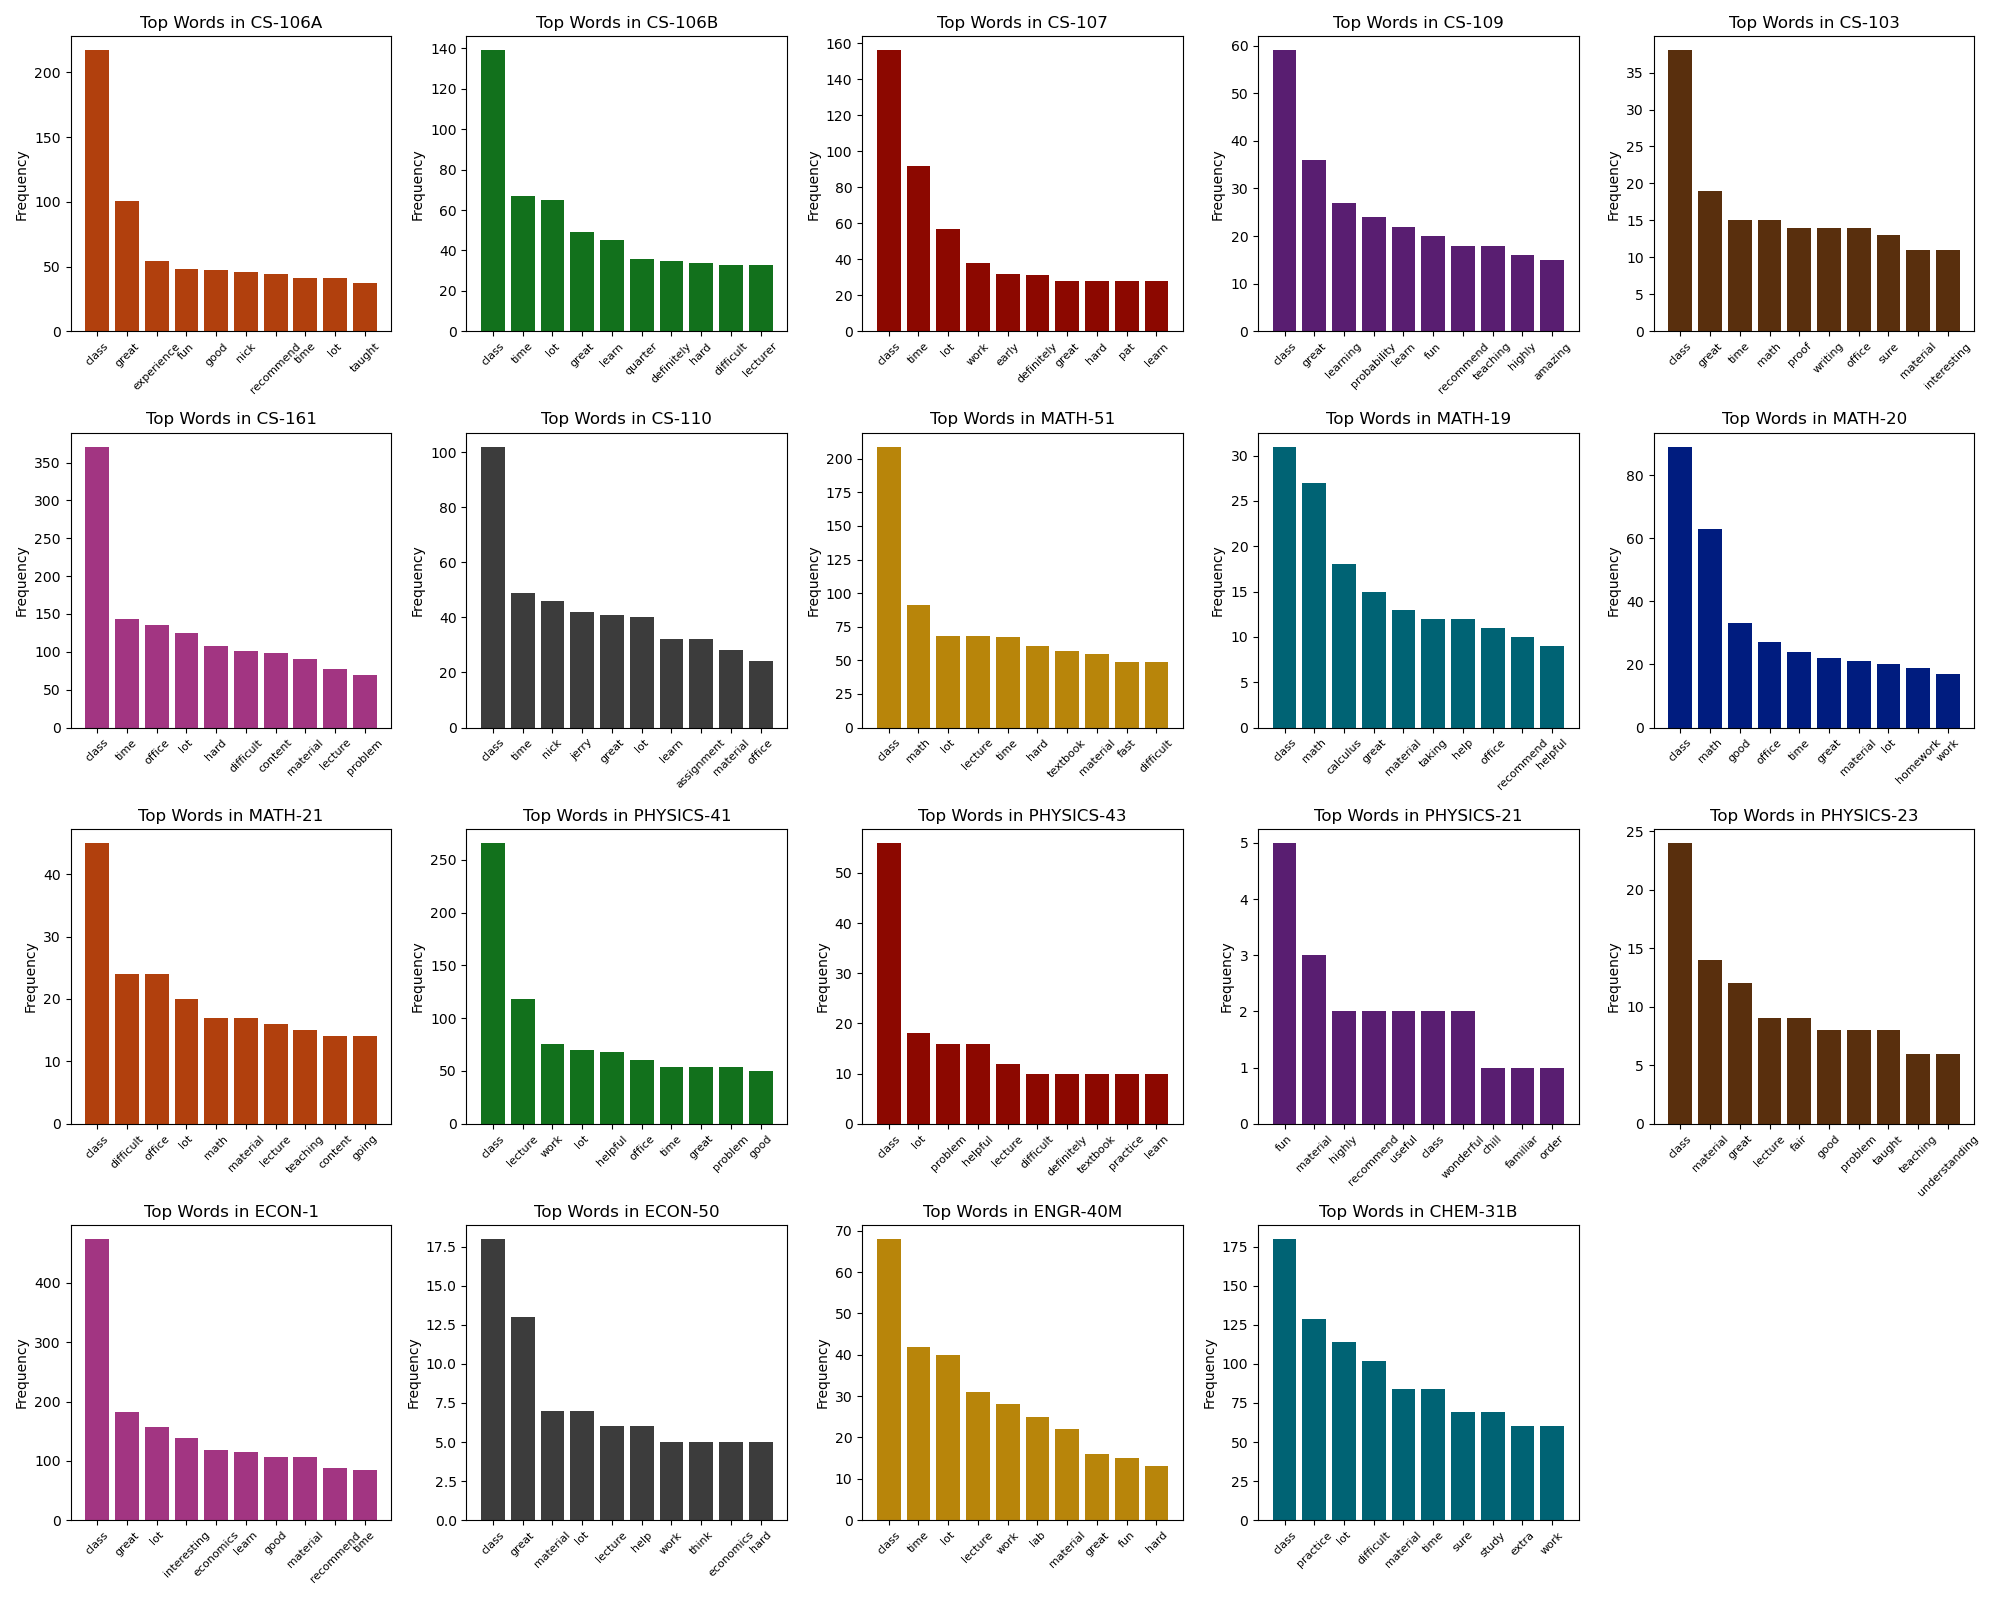
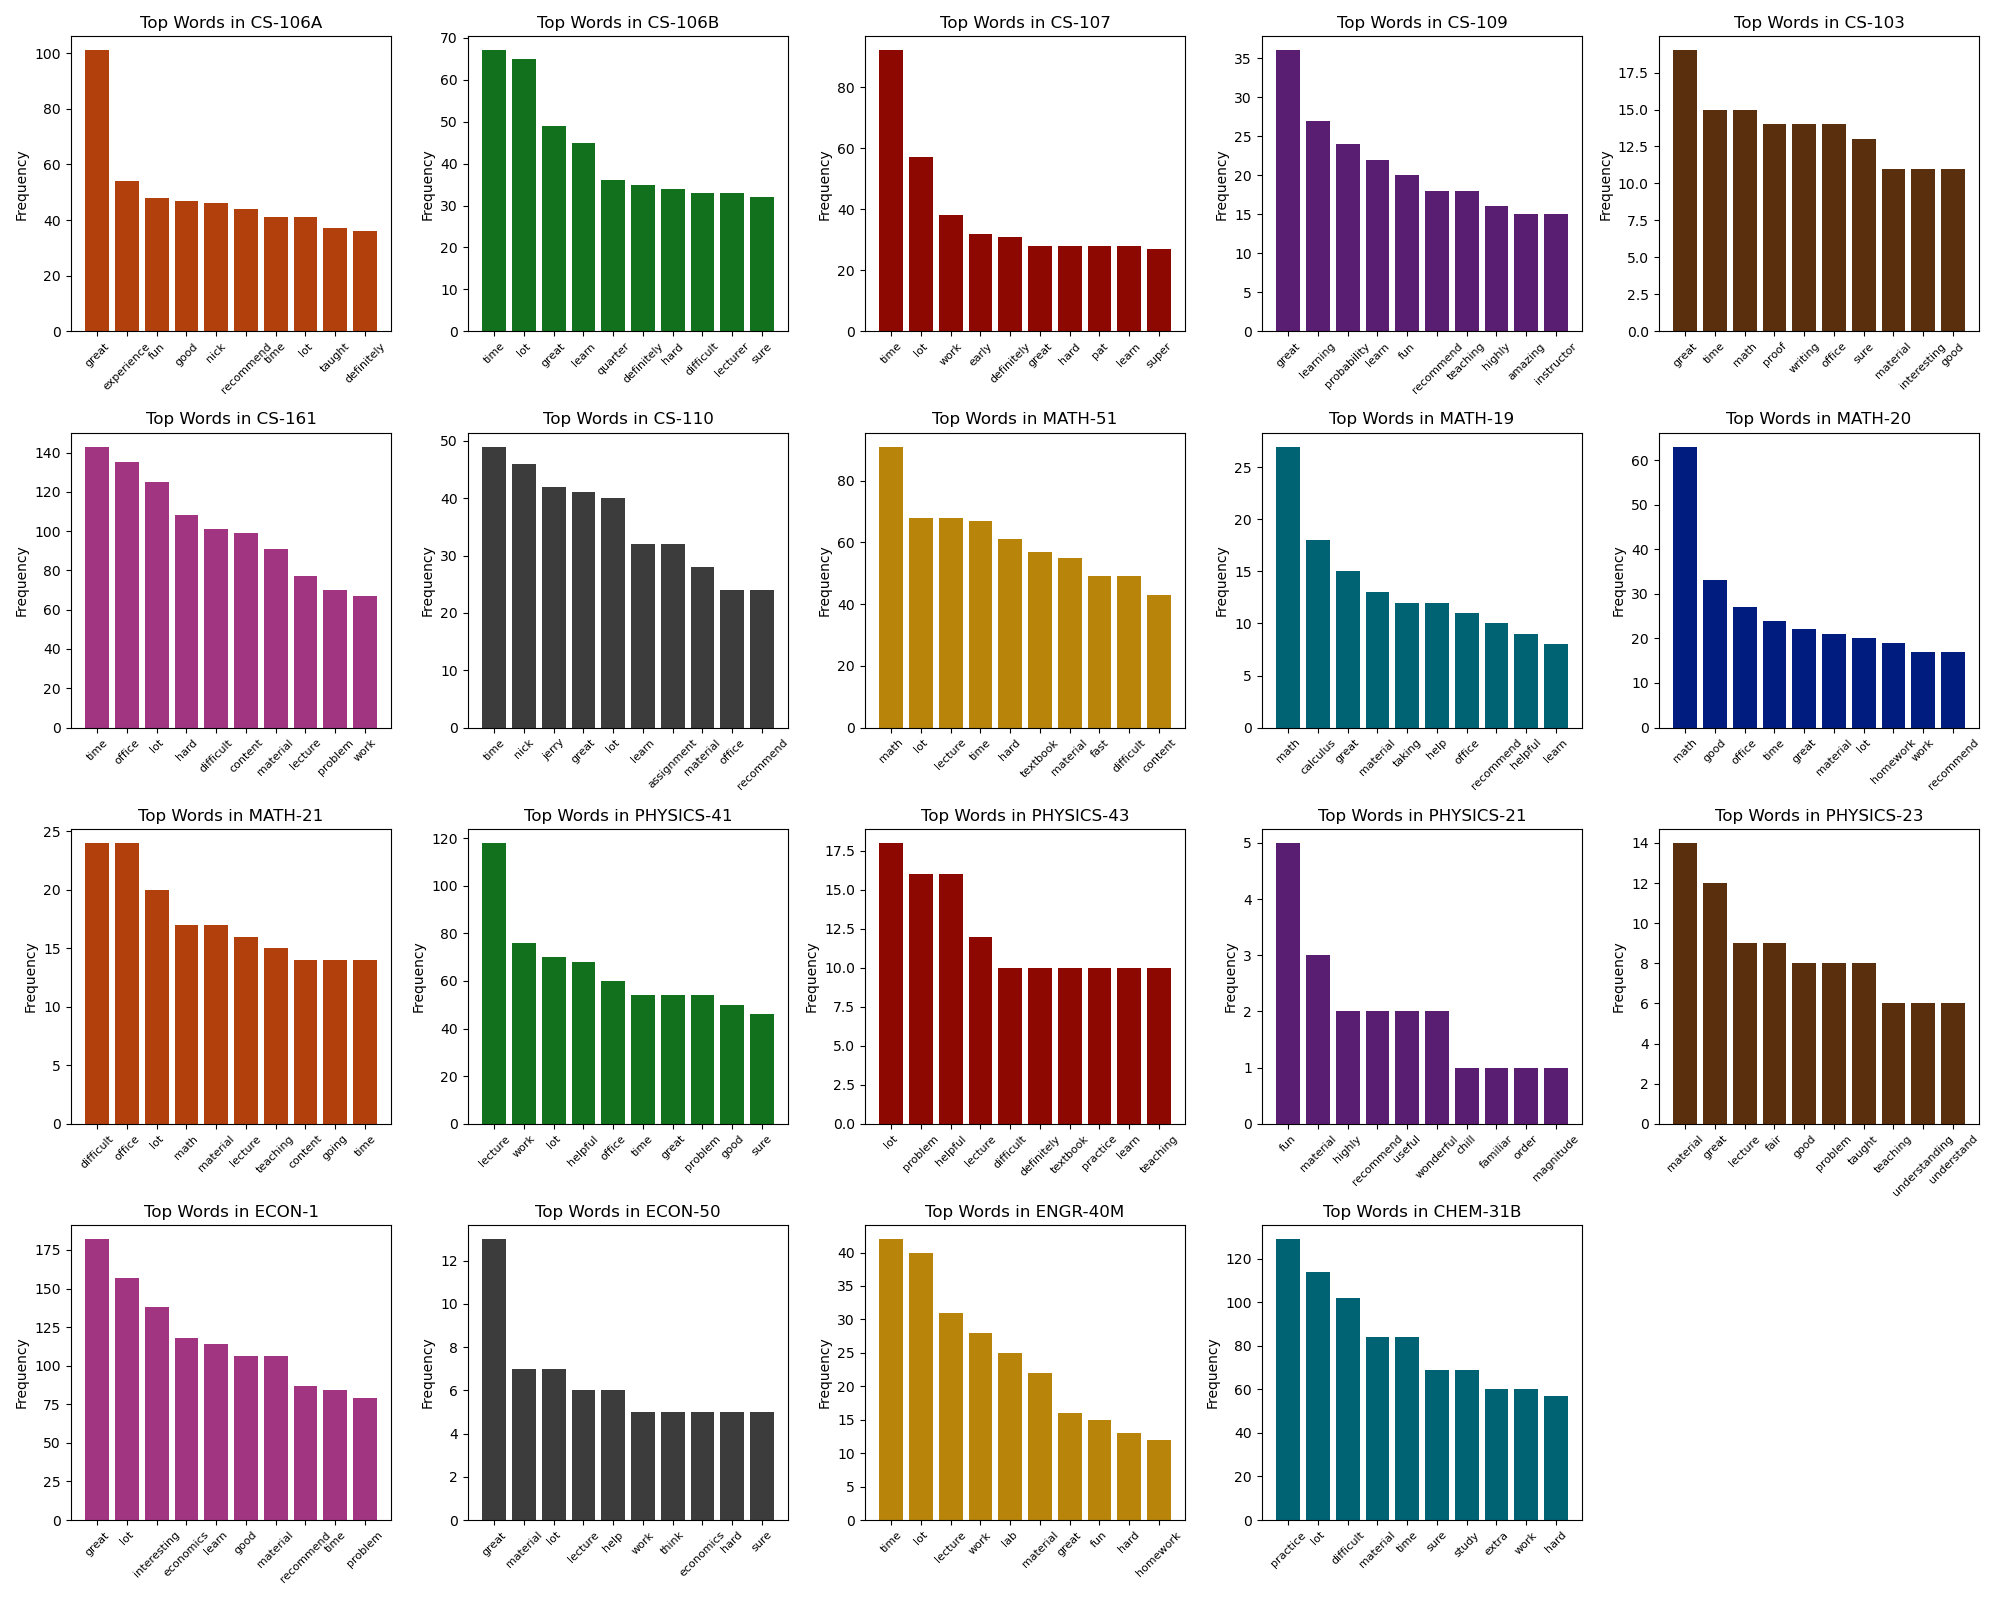
added class to stopwords

diff --git a/most_frequent_words.py b/most_frequent_words.py
@@ -155,7 +155,7 @@ def main():
     file_name = "course_evals.csv"
     course_list = ["CS-106A", "CS-106B", "CS-107", "CS-109", "CS-103", "CS-161", "CS-110", "MATH-51", "MATH-19", "MATH-20", "MATH-21",
                   "PHYSICS-41", "PHYSICS-43", "PHYSICS-21", "PHYSICS-23", "ECON-1", "ECON-50", "ENGR-40M", "CHEM-31B"]
-    custom_stopwords = ["course", "cs", "course", "professor", "physics", "econ"]
+    custom_stopwords = ["class", "course", "cs", "course", "professor", "physics", "econ"]
     color_palette = sns.color_palette("dark")
 
     # Load data
